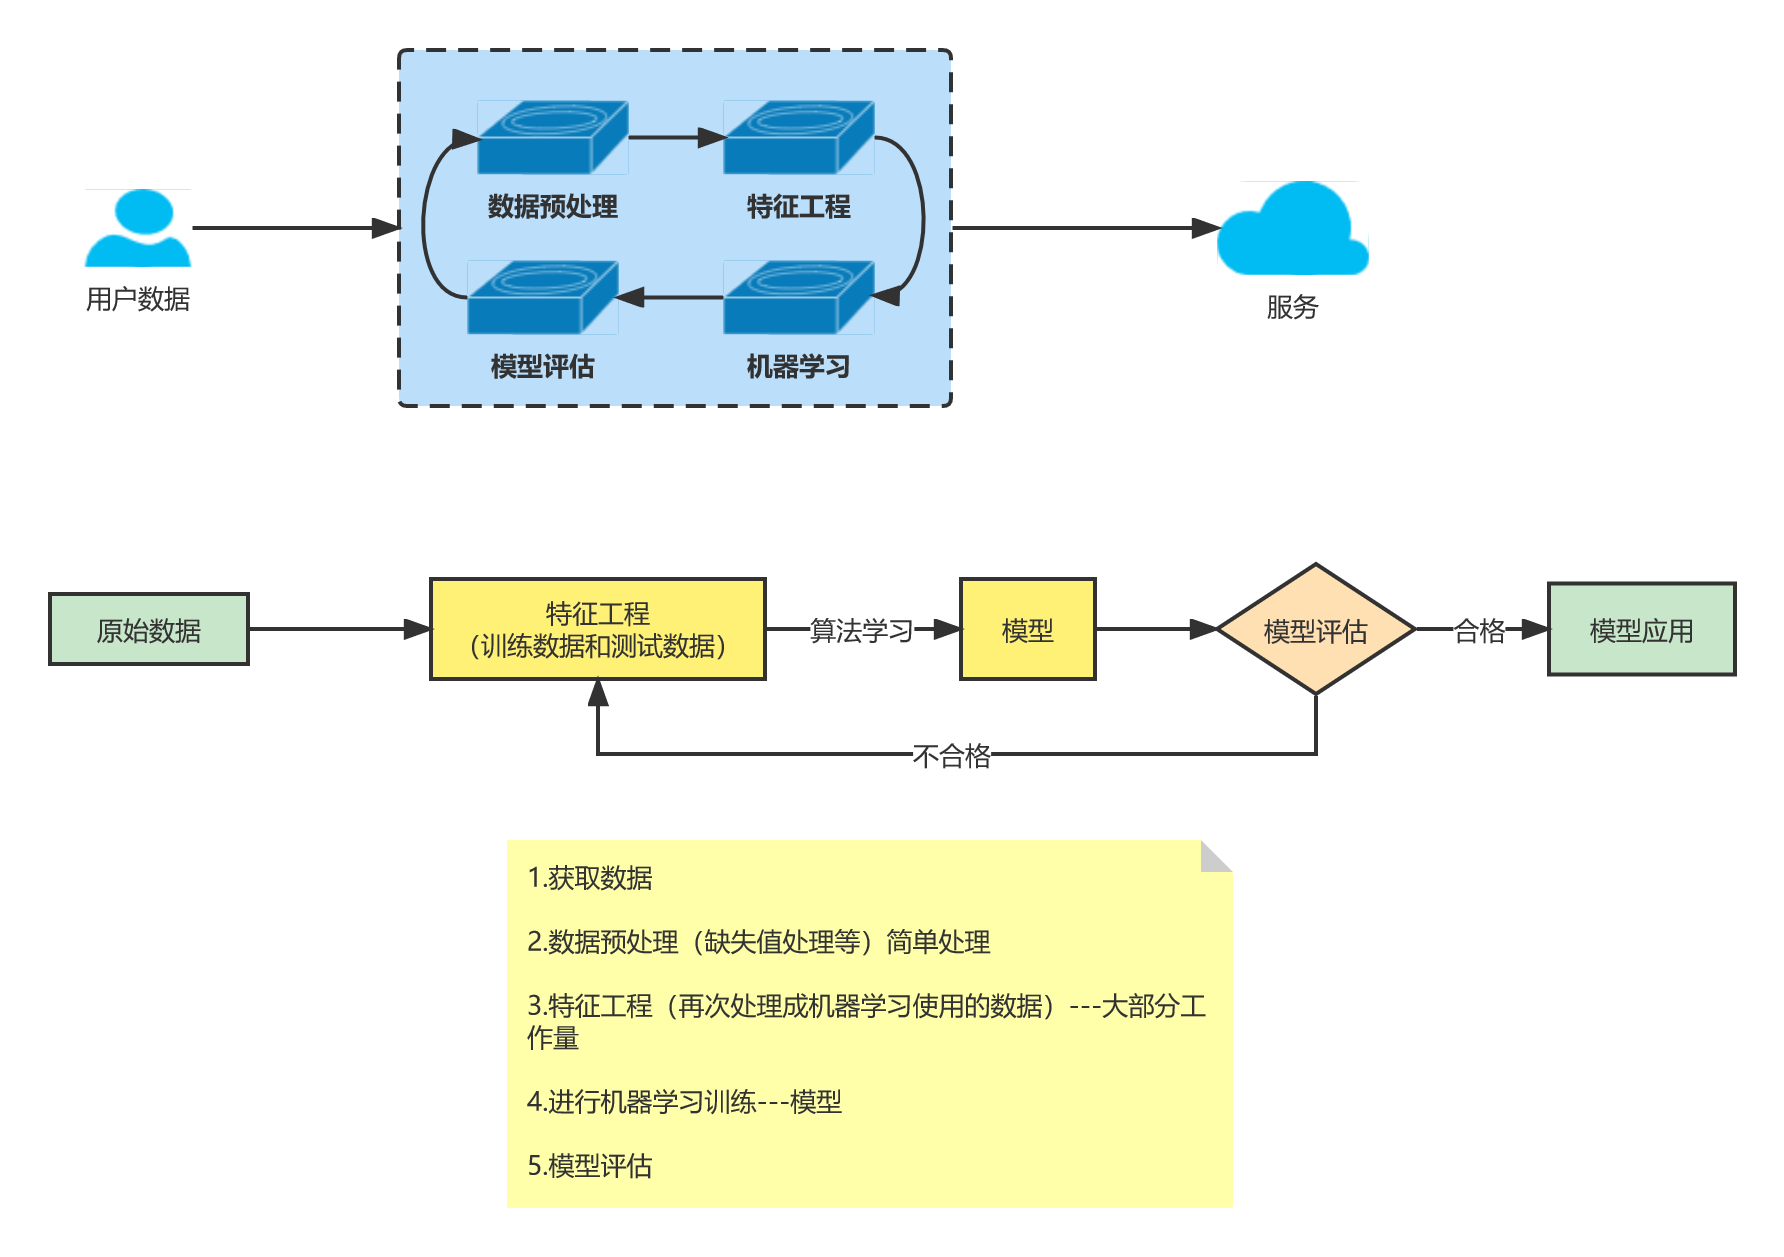
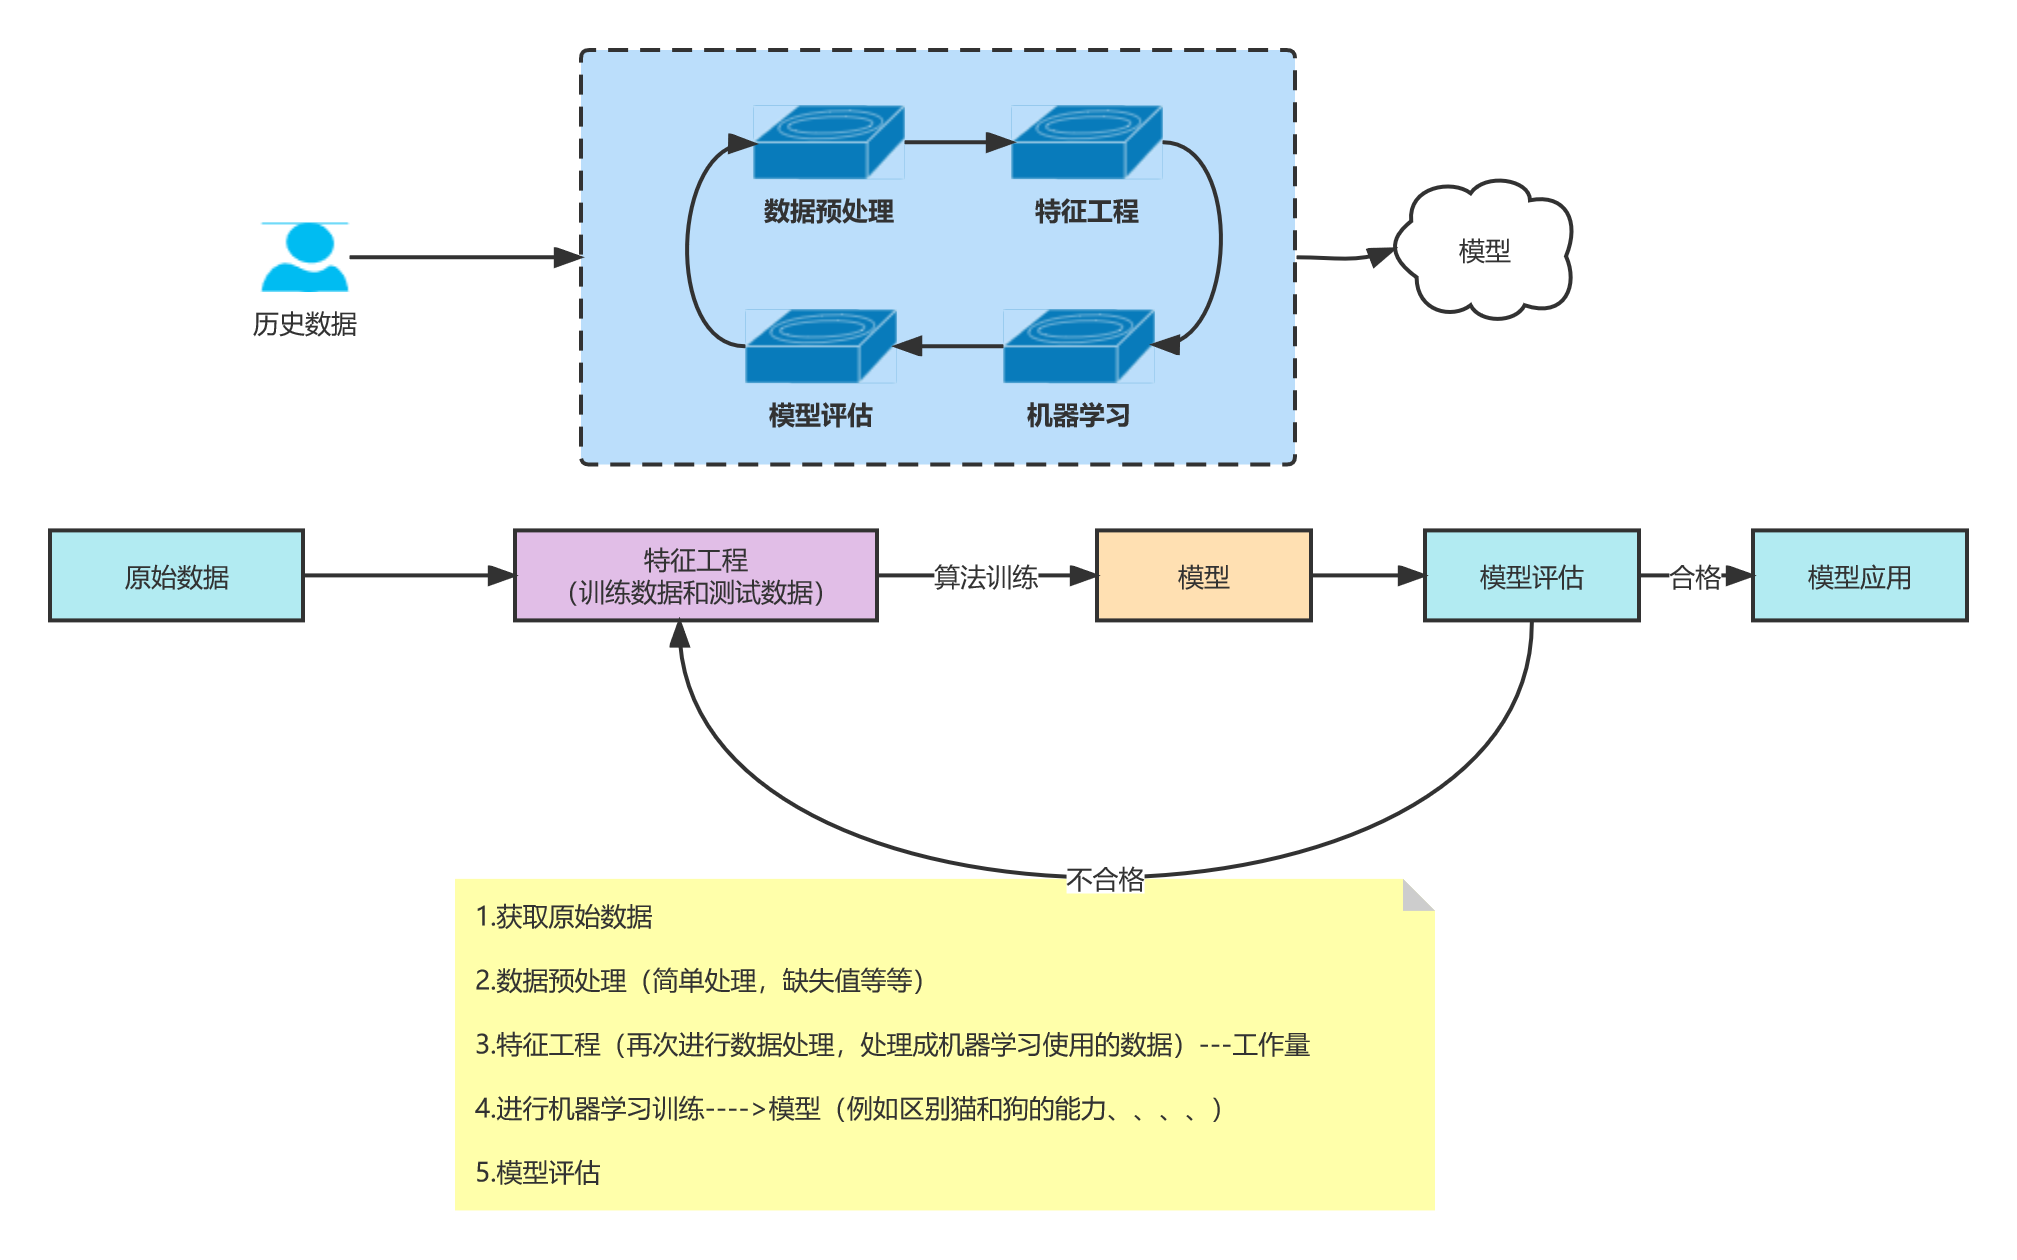
数据库与机器学习

Changed region(s): [[0.0, 0.4033, 0.9865, 0.9618], [0.0308, 0.031, 0.7707, 0.3723]]

diff --git a/03数据库/BCNF记录.md b/03数据库/BCNF记录.md
@@ -1,0 +1,73 @@
+# BCNF记录
+
+## 1.BCNF求解步骤
+
+1. 寻找关系模式中属性α的**闭包**，如果这个属性的闭包**没有包含R中所有属性**，且为**非平凡函数依赖**，则需要拆解，否则直接构建新的关系模式
+
+2. 拆解方法：
+
+   - 非平凡函数依赖α→β，将原来R变为R-β，并构造一个新的关系模式α∪β
+
+   - 依次分解，直到全部拆解完毕。
+
+     > 平凡函数依赖与非平凡函数依赖
+     >
+     > 例子：在学生选课表中SC（Sno，Cno，Grade）：
+     >
+     > **<font color="#FF0000">非平凡函数依赖</font>**：（Sno，Cno）→Grade
+     >
+     > 平凡函数依赖：（Sno,Cno）→Sno、（Sno,Cno）→Cno
+
+## 2.例题分析
+
+### 例题1
+
+关系模式U={ABCD}，F={B→C，B→D}，求BCNF
+
+**答**：$B^+$有：B，C，D，并不包含R中所有属性（A），所以不是BCNF。
+
+![例题1](../assets/例题1.png)
+
+### 例题2
+
+关系模式：U={ABCD}，F={AB→C，BC→D，CD→A，AD→B}求BCNF
+
+**答：**满足BCNF（验证一下）
+
+$AB^+$有：A，B，C，D包含R中所有属性
+
+$BC^+$有：B，C，D，A包含R中所有属性
+
+$CD^+$有：C，D，A，B包含R中所有属性
+
+$AD^+$有：A，D，B，C包含R中所有属性
+
+### 例题3
+
+关系模式：U={ABCDE}，F={AB→C，DE→C，B→D}求BCNF
+
+**答：**
+
+$AB_+$有：A，B，C，D不包含R中所有属性，不是BCNF需要分解
+
+![例题1](../assets/例题2.png)
+
+### 例题4
+
+U={ABCDE}，F={A→C，C→D，B→C，DE→C，CE→A}求BCNF
+
+答：
+
+$A_+$有：A，C，D，不是BCNF需要分解
+
+![例题4](../assets/例题4.png)
+
+### 例题5
+
+关系模式U={ABCDEG}，F={AB->CD，B->D，DE->B，DEG->AB，AC->DE}求BCNF
+
+**答：**
+
+$AB_+$有：A,B,C,D,E不包含关系模式R所有属性，不是BCNF需要分解
+
+![例题5](../assets/例题5.png)

diff --git a/01机器学习/01机器概述/1.1概述.md b/01机器学习/01机器概述/1.1概述.md
@@ -1,14 +1,12 @@
 # 机器学习概述
 
-
-
 ## 1.定义
 
-机器学习是从**<font color="#ff0000">数据</font>**中自动分析获得**<font color="#ff0000">模型</font>**，并利用**<font color="#ff0000">模型</font>**对未知数据进行预测。
+机器学习是从**<font color="#FF0000">数据</font>**中自动分析获得**<font color="#FF0000">模型</font>**，并利用**<font color="#FF0000">模型</font>**对未知数据进行预测。
 
 ## 2.解释
 
-![机器学习解释](../../assets/机器学习概述--解释.png)
+![机器学习--解释](../../assets/机器学习--解释.png)
 
 ## 3.开发流程
 
@@ -16,7 +14,9 @@
 
 ## 4.算法分类
 
-监督学习：K-近邻、贝叶斯分类、决策树与随机森林、逻辑回归、神经网络等
+监督学习：有目标值。K-近邻、贝叶斯分类、决策树与随机森林、逻辑回归、神经网络等等
 
-无监督学习：K-means等
+无监督学习：无目标值。K-means等等
+
+
 

diff --git a/SUMMARY.md b/SUMMARY.md
@@ -5,3 +5,6 @@
 - 后端学习记录
   - Java
 
+- 数据库
+  - [BCNF记录](03数据库\BCNF记录.md)
+
